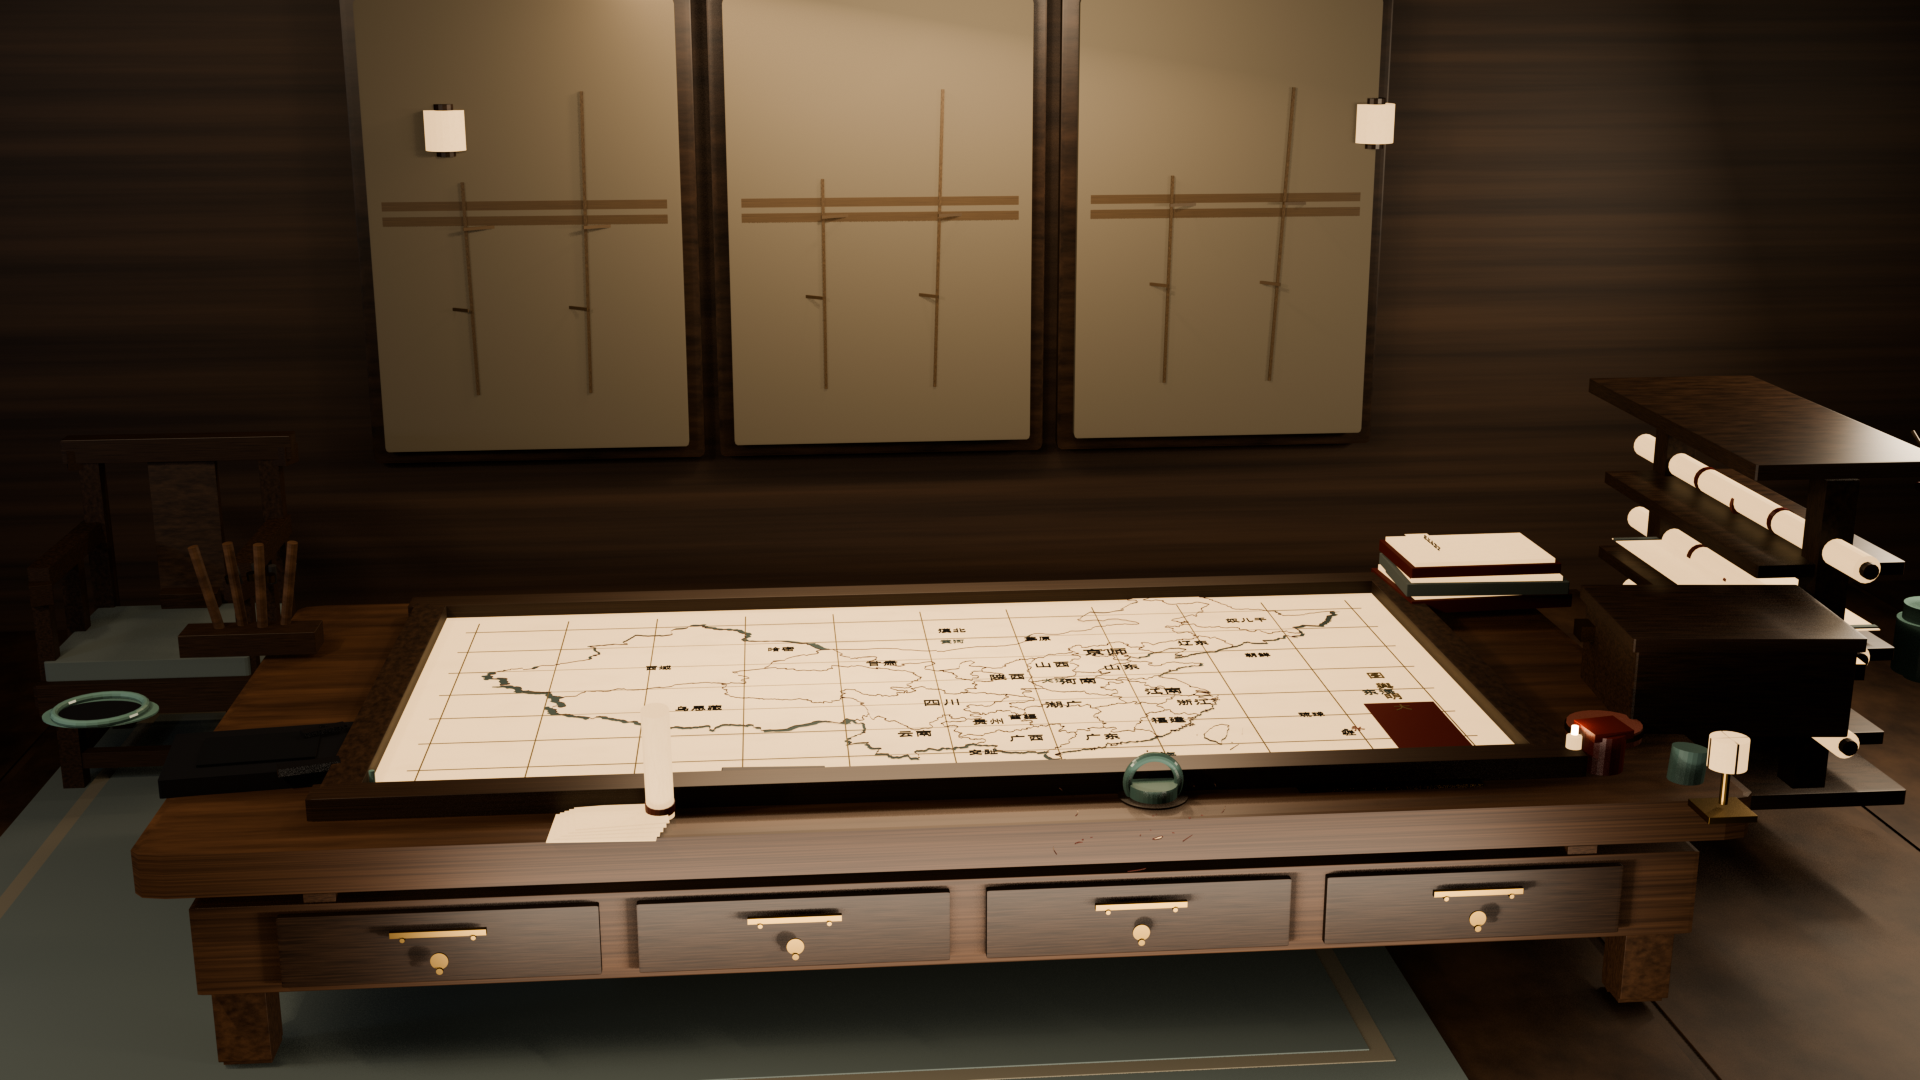
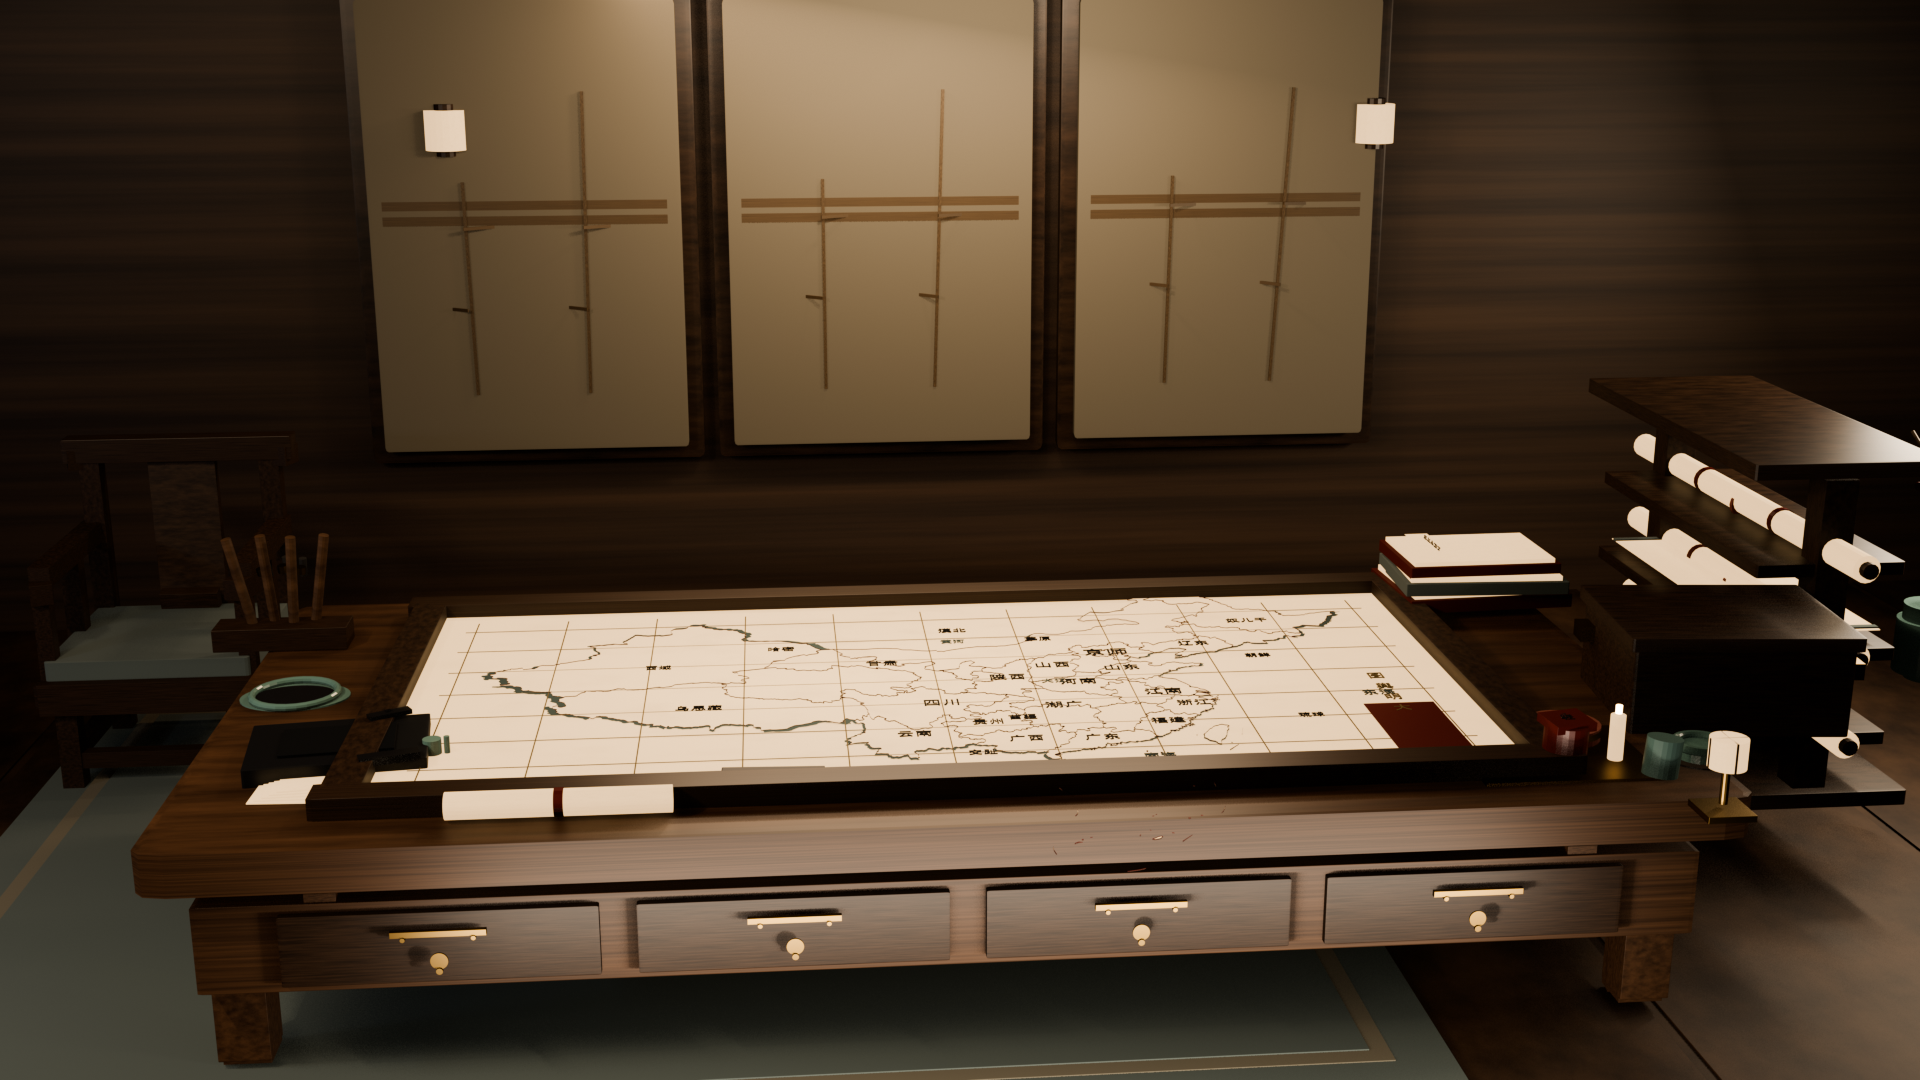
fix(blender): correct annotated desk prop placement

diff --git a/tools/blender/start-room.py b/tools/blender/start-room.py
@@ -475,9 +475,9 @@ for mi, mx in enumerate((-1.96, 1.96)):
 
 # a shallow celadon brush washer, with a dark water pool and a raised rim
 # tucked beside the inkstone (a close-up reward without competing with the map)
-disc("brush_washer", (-3.02, 0.62, 0.900), (0.20, 0.15), CELADON)
-disc("brush_washer_pool", (-3.02, 0.62, 0.906), (0.145, 0.105), INKSTONE)
-bpy.ops.mesh.primitive_torus_add(major_radius=0.155, minor_radius=0.014, major_segments=28, minor_segments=10, location=(-3.02, 0.62, 0.914))
+disc("brush_washer", (-2.38, 0.82, 0.868), (0.20, 0.15), CELADON)
+disc("brush_washer_pool", (-2.38, 0.82, 0.874), (0.145, 0.105), INKSTONE)
+bpy.ops.mesh.primitive_torus_add(major_radius=0.155, minor_radius=0.014, major_segments=28, minor_segments=10, location=(-2.38, 0.82, 0.882))
 washer_rim = bpy.context.object
 washer_rim.name = "brush_washer_rim"
 washer_rim.data.materials.append(CELADON)
@@ -513,31 +513,31 @@ box("wood_box_corner_a", (3.19, 0.03, 1.08), (0.10, 0.10, 0.06), BRASS, rot=(0, 
 box("wood_box_corner_b", (2.45, 0.53, 1.08), (0.10, 0.10, 0.06), BRASS, rot=(0, 0, -0.09), bev=0)
 
 # brush rest + brushes laid across it, tips tapered
-box("brush_rest", (-2.65, 1.35, 0.93), (0.52, 0.16, 0.09), WOOD_FRAME, bev=0.01, uv=1)
+box("brush_rest", (-2.55, 1.45, 0.915), (0.52, 0.16, 0.09), WOOD_FRAME, bev=0.01, uv=1)
 for i in range(4):
-    bx = -2.80 + i * 0.10
-    by = 1.35 + (i % 2) * 0.03
+    bx = -2.70 + i * 0.10
+    by = 1.45 + (i % 2) * 0.03
     rot_z = 0.12 * (i - 1.5)
     cyl("brush_%d" % i, (bx, by, 1.12), 0.020, 0.40, WOOD_LIGHT, rot=(0.10, rot_z, 0), verts=14)
     cyl("brush_ferrule_%d" % i, (bx - math.sin(rot_z) * 0.20, by + math.cos(rot_z) * 0.20 + 0.018, 1.115), 0.021, 0.030, BRASS, rot=(0.10, rot_z, 0), verts=14)
     cyl("brush_tuft_%d" % i, (bx - math.sin(rot_z) * 0.245, by + math.cos(rot_z) * 0.245 + 0.036, 1.112), 0.016, 0.075, BRUSH_HAIR, rot=(0.12, rot_z, 0), verts=12)
 
 # inkstone with a wet pool, plus a resting ink stick
-box("inkstone", (-2.35, 0.12, 0.895), (0.60, 0.44, 0.065), INKSTONE, rot=(0, 0, 0.12), bev=0.014, uv=1)
-box("ink_pool", (-2.35, 0.12, 0.933), (0.38, 0.26, 0.008), mat_basic("ink_pool", (0.010, 0.012, 0.014), rough=0.14), rot=(0, 0, 0.12), bev=0)
-box("ink_stick", (-2.15, -0.07, 0.935), (0.20, 0.055, 0.028), INK, rot=(0, 0, 0.30), bev=0.004)
+box("inkstone", (-2.10, 0.18, 0.895), (0.60, 0.44, 0.065), INKSTONE, rot=(0, 0, 0.12), bev=0.014, uv=1)
+box("ink_pool", (-2.10, 0.18, 0.933), (0.38, 0.26, 0.008), mat_basic("ink_pool", (0.010, 0.012, 0.014), rough=0.14), rot=(0, 0, 0.12), bev=0)
+box("ink_stick", (-1.90, -0.01, 0.935), (0.20, 0.055, 0.028), INK, rot=(0, 0, 0.30), bev=0.004)
 
 # seals: carved shou-shan stone and a jade one, with the vermilion pad
-cyl("seal_red", (2.18, -0.30, 0.925), 0.075, 0.16, LACQUER, rot=(0.06, 0, 0), verts=24)
-box("seal_red_cap", (2.18, -0.30, 1.005), (0.15, 0.13, 0.03), LACQUER, rot=(0.06, 0, 0.20), bev=0.005)
-cyl("seal_jade", (2.43, -0.42, 0.910), 0.060, 0.13, JADE, rot=(-0.05, 0.10, 0), verts=24)
-cyl("seal_pad", (2.30, -0.02, 0.895), 0.13, 0.05, SEAL_CLAY, verts=24)
-cyl("seal_pad_rim", (2.30, -0.02, 0.902), 0.135, 0.02, BRASS, verts=28)
+cyl("seal_red", (2.05, -0.30, 0.956), 0.075, 0.16, LACQUER, rot=(0.06, 0, 0), verts=24)
+box("seal_red_cap", (2.05, -0.30, 1.036), (0.15, 0.13, 0.03), LACQUER, rot=(0.06, 0, 0.20), bev=0.005)
+cyl("seal_jade", (2.35, -0.40, 0.941), 0.060, 0.13, JADE, rot=(-0.05, 0.10, 0), verts=24)
+cyl("seal_pad", (2.15, -0.02, 0.901), 0.13, 0.05, SEAL_CLAY, verts=24)
+cyl("seal_pad_rim", (2.15, -0.02, 0.908), 0.135, 0.02, BRASS, verts=28)
 
 # paperweight and a rolled edict
 box("weight_stone", (-0.62, -0.28, 0.905), (0.34, 0.14, 0.06), INKSTONE, rot=(0, 0, -0.05), bev=0.012)
-cyl("edict_roll", (-0.98, -0.44, 0.905), 0.045, 0.72, PAPER, rot=(0, -0.22, math.pi / 2), verts=20)
-cyl("edict_tie", (-0.98, -0.44, 0.905), 0.048, 0.03, LACQUER, rot=(0, -0.22, math.pi / 2), verts=20)
+cyl("edict_roll", (-1.30, -0.42, 0.92), 0.045, 0.72, PAPER, rot=(0, math.pi / 2, 0), verts=20)
+cyl("edict_tie", (-1.30, -0.42, 0.92), 0.048, 0.03, LACQUER, rot=(0, math.pi / 2, 0), verts=20)
 
 # ---- right scroll rack: capped top and base, scrolls on each shelf ----
 box("rack_upright_a", (3.35, 1.95, 1.00), (0.13, 0.13, 1.30), WOOD_FRAME, bev=0.012, uv=1)
@@ -628,26 +628,26 @@ cyl("smoke_1", (-4.87, 2.31, 1.14), 0.032, 0.14, CLOTH, verts=10)
 cyl("smoke_2", (-4.83, 2.29, 1.26), 0.046, 0.14, CLOTH, verts=10)
 
 # ---- detail props (v2) ----
-bpy.ops.mesh.primitive_torus_add(major_radius=0.085, minor_radius=0.016, location=(0.62, -0.42, 0.922), rotation=(math.pi / 2, 0, 0))
+bpy.ops.mesh.primitive_torus_add(major_radius=0.085, minor_radius=0.016, location=(2.55, -0.25, 0.922))
 bowl_rim = bpy.context.object
 bowl_rim.name = "tea_bowl_rim"
 bowl_rim.data.materials.append(CELADON)
-cyl("tea_bowl", (0.62, -0.42, 0.888), 0.080, 0.055, CELADON, verts=32)
-disc("tea_saucer", (0.62, -0.42, 0.871), (0.115, 0.115), WOOD_FRAME)
-box("ink_stick_2", (-2.16, 0.24, 0.949), (0.15, 0.045, 0.016), INK, rot=(0, 0, 0.5), bev=0.004)
+cyl("tea_bowl", (2.55, -0.25, 0.888), 0.080, 0.055, CELADON, verts=32)
+disc("tea_saucer", (2.55, -0.25, 0.871), (0.115, 0.115), WOOD_FRAME)
+box("ink_stick_2", (-1.96, 0.38, 0.949), (0.15, 0.045, 0.016), INK, rot=(0, 0, 0.5), bev=0.004)
 # water dropper beside the inkstone, and a carved inscription on the inkstick
-cyl("dropper_body", (-1.98, -0.16, 0.905), 0.032, 0.07, CELADON, verts=20)
-cyl("dropper_spout", (-1.93, -0.16, 0.918), 0.010, 0.06, CELADON, rot=(0, 0, math.pi / 2 - 0.5), verts=10)
+cyl("dropper_body", (-1.78, 0.14, 0.905), 0.032, 0.07, CELADON, verts=20)
+cyl("dropper_spout", (-1.73, 0.14, 0.918), 0.010, 0.06, CELADON, rot=(0, 0, math.pi / 2 - 0.5), verts=10)
 if get_font() is not None:
-    relief("inkstick_char", "墨", (-2.16, 0.24, 0.958), 0.030, INK, rot=(0, 0, 0.5), extrude=0.0008)
-box("brass_tray", (1.42, -0.18, 0.870), (0.62, 0.50, 0.012), BRASS, bev=0.006)
+    relief("inkstick_char", "墨", (-1.96, 0.38, 0.958), 0.030, INK, rot=(0, 0, 0.5), extrude=0.0008)
+box("brass_tray", (2.05, -0.18, 0.870), (0.62, 0.50, 0.012), BRASS, bev=0.006)
 # carved characters on the seal's top face, and a fresh vermilion impression on the pad
 if get_font() is not None:
-    relief("seal_char_a", "永", (1.30, -0.30, 1.021), 0.048, INK, rot=(0, 0, 0), extrude=0.0012)
-    relief("seal_char_b", "驻", (1.30, -0.315, 1.021), 0.048, INK, rot=(0, 0, 0), extrude=0.0012)
-    relief("seal_print", "永", (1.42, -0.02, 0.923), 0.050, SEAL_CLAY, rot=(0, 0, 0.30), extrude=0.0010)
+    relief("seal_char_a", "永", (2.05, -0.30, 1.052), 0.048, INK, rot=(0, 0, 0), extrude=0.0012)
+    relief("seal_char_b", "驻", (2.05, -0.315, 1.052), 0.048, INK, rot=(0, 0, 0), extrude=0.0012)
+    relief("seal_print", "永", (2.15, -0.02, 0.932), 0.050, SEAL_CLAY, rot=(0, 0, 0.30), extrude=0.0010)
 for i in range(5):
-    box("slip_%d" % i, (-1.15 + i * 0.012, -0.52 + i * 0.014, 0.870 + i * 0.004), (0.34 - i * 0.012, 0.22 - i * 0.010, 0.004), PAPER, rot=(0, 0, 0.04 * i - 0.05), bev=0)
+    box("slip_%d" % i, (-2.15 + i * 0.012, -0.12 + i * 0.014, 0.870 + i * 0.004), (0.34 - i * 0.012, 0.22 - i * 0.010, 0.004), PAPER, rot=(0, 0, 0.04 * i - 0.05), bev=0)
 box("lamp_base", (2.42, -0.72, 0.876), (0.16, 0.16, 0.022), BRASS, bev=0.006)
 cyl("lamp_stem", (2.42, -0.72, 0.97), 0.014, 0.14, BRASS, verts=14)
 cyl("lamp_cup", (2.42, -0.72, 1.055), 0.055, 0.045, BRASS, verts=20)
@@ -670,15 +670,15 @@ except Exception as _e:
 box("lamp_shade_rib_a", (2.42, -0.72, 1.075), (0.128, 0.006, 0.10), WOOD_FRAME, bev=0)
 box("lamp_shade_rib_b", (2.42, -0.72, 1.075), (0.006, 0.128, 0.10), WOOD_FRAME, bev=0)
 # a second, shorter candle on the tray
-cyl("candle2_body", (2.08, -0.30, 0.905), 0.026, 0.16, PAPER, verts=16)
-cyl("candle2_flame", (2.08, -0.30, 1.005), 0.012, 0.03, GLOW, verts=10)
+cyl("candle2_body", (2.25, -0.25, 0.956), 0.026, 0.16, PAPER, verts=16)
+cyl("candle2_flame", (2.25, -0.25, 1.056), 0.012, 0.03, GLOW, verts=10)
 pl2 = bpy.data.lights.new("candle2_pt", type="POINT")
 pl2.energy = 6.0
 pl2.color = (1.0, 0.60, 0.32)
 pl2.shadow_soft_size = 0.05
 o2 = bpy.data.objects.new("candle2_pt", pl2)
 scene.collection.objects.link(o2)
-o2.location = (2.08, -0.30, 1.02)
+o2.location = (2.25, -0.25, 1.07)
 # hanging lanterns on the back wall for depth
 for li, lx in enumerate((-2.20, 2.60)):
     cyl("lantern_cord_%d" % li, (lx, 4.30, 3.05), 0.004, 0.60, CLOTH, verts=8)
